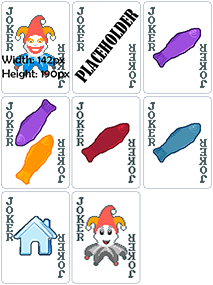
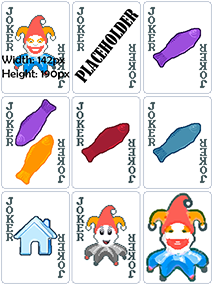
feat(joker/painting): Added Painting Joker (#14)
* feat(joker/painting): Added code for Painting Joker

* feat(joker/painting): Added artwork and docs

Changed region(s): [[0.6479, 0.6456, 1.0, 1.0]]

diff --git a/docs/Installation.md b/docs/Installation.md
@@ -8,15 +8,19 @@ Before installing the mod, you will need to install Steamodded, the Balatro mod 
 Instructions on how to install Steamodded are found on their [wiki](https://github.com/Steamodded/smods/wiki#how-to-install-steamodded).
 
 > [!IMPORTANT]
-> Collectables requires a specific version of smods / steamodded, specifically version `1.0.0~ALPHA-1314d-STEAMODDED` or later.
+> Collectables requires a specific version of smods / steamodded, specifically version `1.0.0~ALPHA-1409a-STEAMODDED` or later.
 > If you are following the Steamodded installation instructions, ensure you are **not** using the "old-calc" version.
+> 
+> This specific version can be found at [this](https://github.com/Steamodded/smods/tree/a1e1f56be0548ba295812beeb4b0e816a1b7f430) point in the repo history, however if you are using the latest version from the main branch you should be fine.
 > 
 > <details>
 > <summary>Click me for a more technical explination for the specific version requirement</summary>
 > 
-> This is because the mod makes use of a recent pull request which added support for nested config values for mods (https://github.com/Steamodded/smods/pull/407).
-> 
-> This version can be found at [this](https://github.com/Steamodded/smods/tree/90f8dd572c17583d5bd84b2815041ce3716733c8) point in the repo history, however if you are using the latest version from the main branch you should be fine.
+> This is because the mod makes use of a handful of recent pull request which added support for various different things:
+> <ul>
+>   <li>Support for nested config values (Introduced by <a href="https://github.com/Steamodded/smods/pull/407">PR#407</a> in version <b>1.0.0~ALPHA-1314d-STEAMODDED</b>)</li>
+>   <li>Support for X chips (Introduced by <a href="https://github.com/Steamodded/smods/commit/8bbc6dd89a5e8018b1f18ccef6ac6e549a4d7c10">commit 8bbc6dd</a> in version <b>1.0.0~ALPHA-1409a-STEAMODDED</b>)</li>
+> </ul>
 > 
 > </details>
 

diff --git a/docs/modContent/Jokers.md b/docs/modContent/Jokers.md
@@ -104,3 +104,20 @@ The following documentation page will contain the information about each of the 
     - Idea / Inspiration: **DevJacob**
     - Artwork: **DevJacob**
     - Code: **DevJacob**
+
+
+## Painting
+- Number: `7`
+- Rarity: `Uncommon`
+- Cost: `5`*
+- Compatibility:
+    - Blueprint: `Yes`
+    - Perishable: `Yes`
+- Effect: First played face card gives x2 Chips when scored
+- Settings Options:
+    - Enabled: Allows this joker to be turned on and off (Default: `true`)
+    - Cost: The base shop price of the joker (Default: `5`)
+- Credits:
+    - Idea / Inspiration: **DevJacob**
+    - Artwork: **DevJacob**
+    - Code: **DevJacob**

diff --git a/docs/Credits.md b/docs/Credits.md
@@ -15,3 +15,4 @@ A massive massive thank you goes out to everyone who contributed to the mod!
         - Red Fish Joker (Idea / Inspiration, Artwork, Code)
         - Blue Fish Joker (Idea / Inspiration, Artwork, Code)
         - Casper Joker (Idea / Inspiration, Artwork, Code)
+        - Painting Joker (Idea / Inspiration, Artwork, Code)
